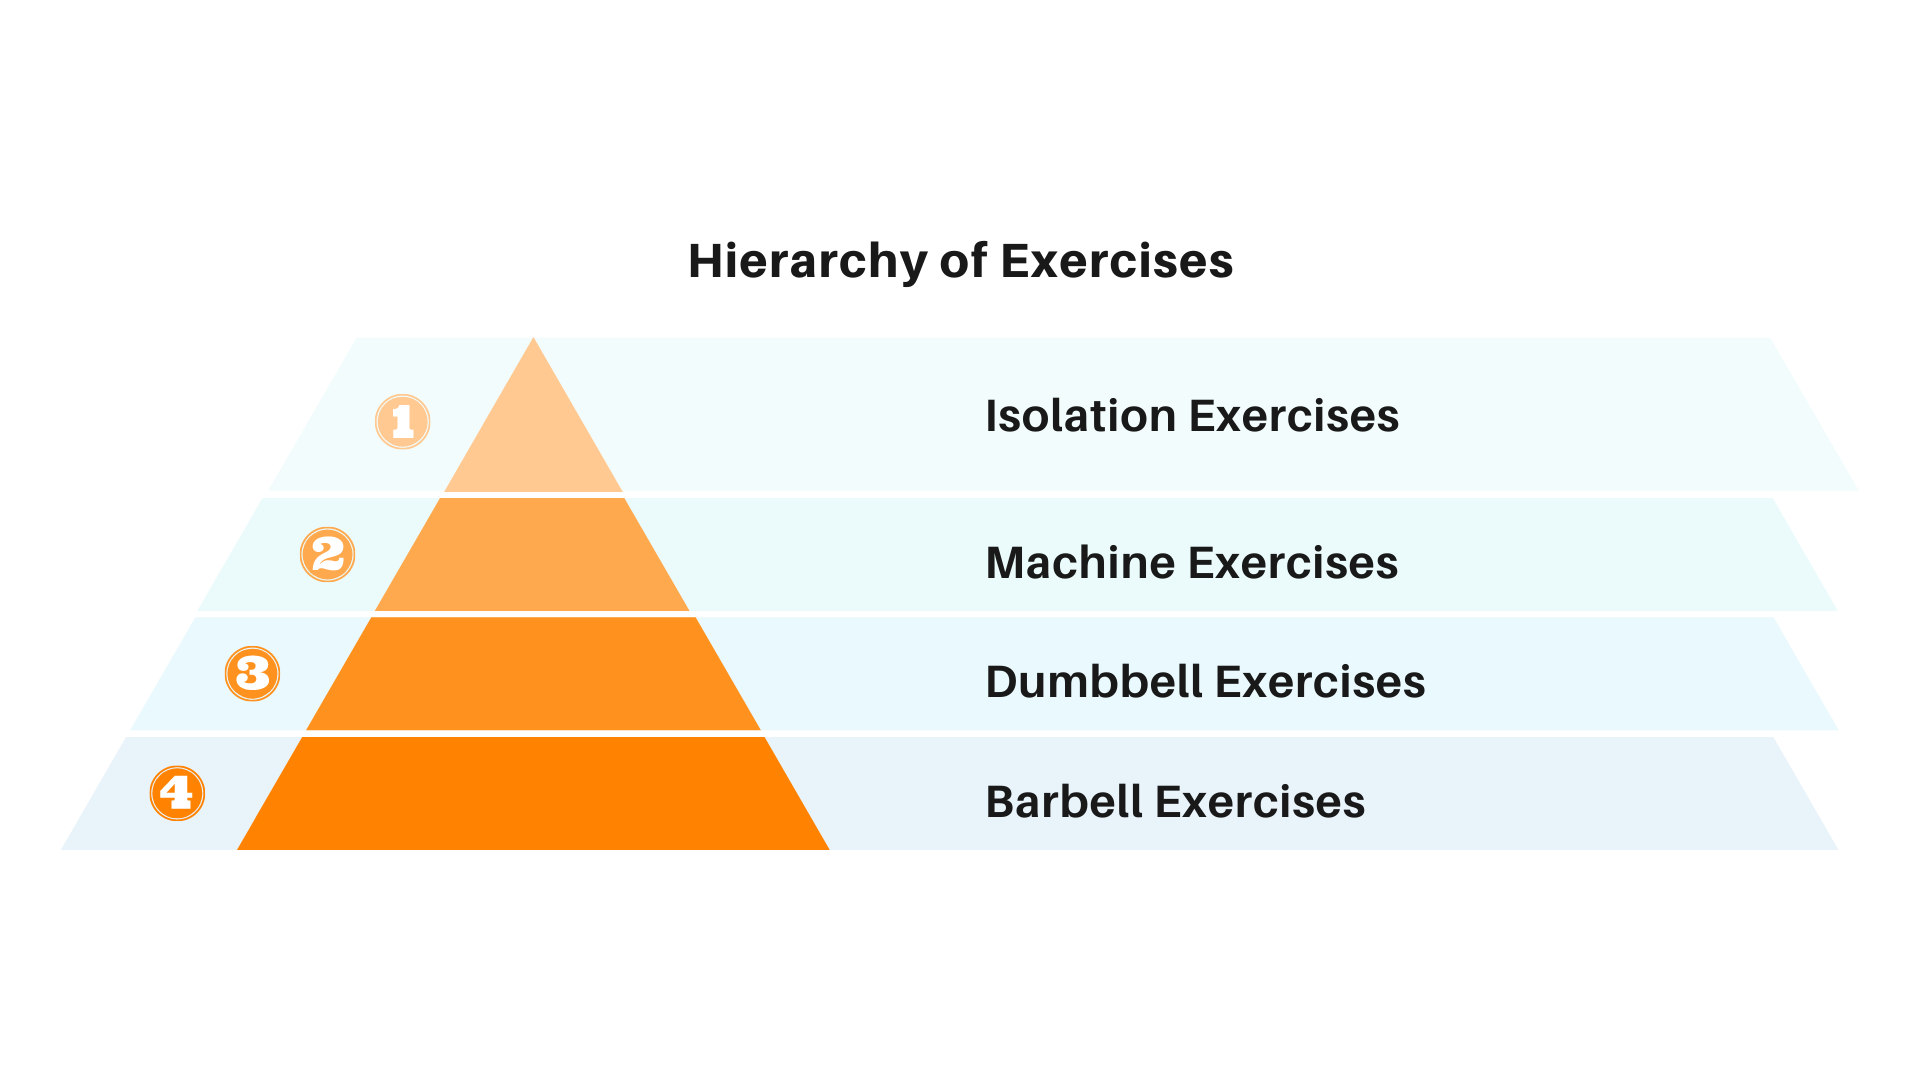
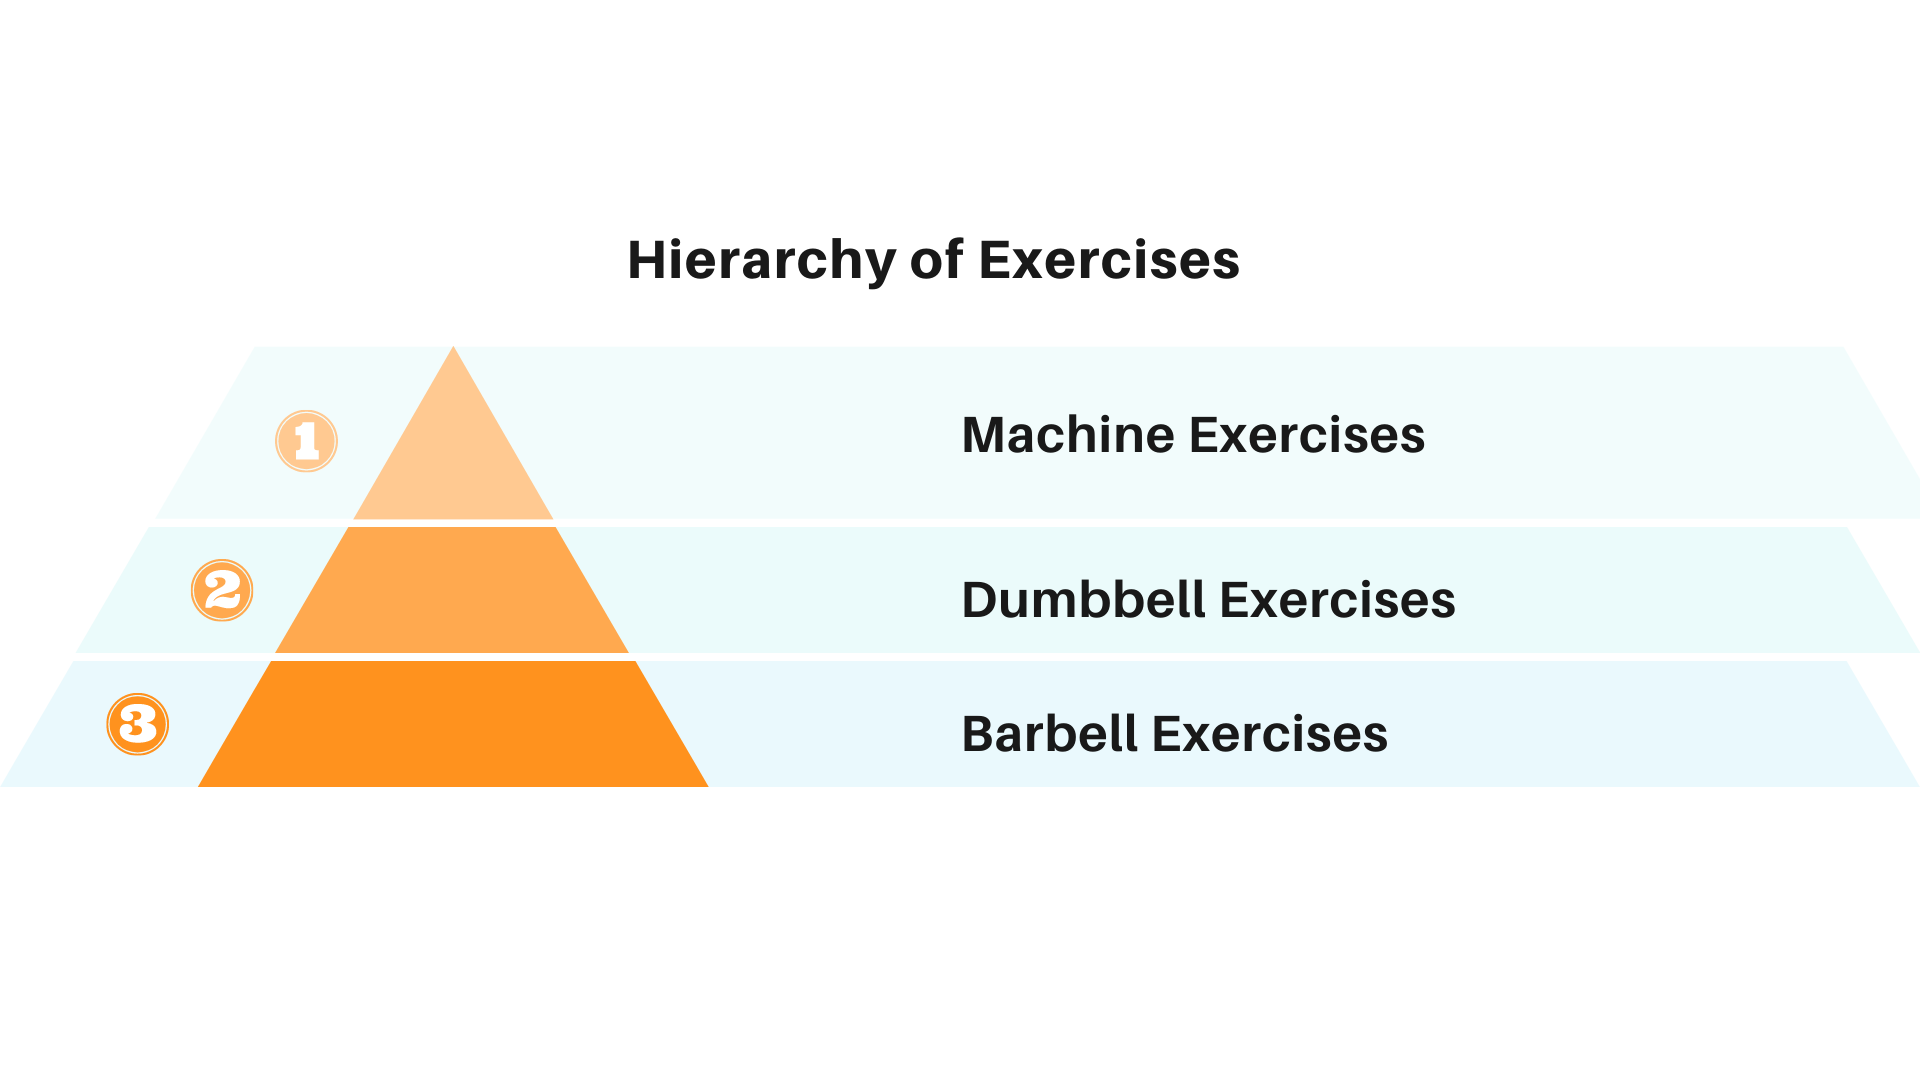
more content to education component, updated graphic

diff --git a/src/components/EducationComponent.js b/src/components/EducationComponent.js
@@ -89,35 +89,43 @@ class EducationPage extends Component {
                         </thead>
                         <tbody>
                             <tr>
-                                <td>Reps</td>
+                                <td><strong>Reps</strong></td>
                                 <td>The amount of repetitions preformed per set. | Example; 1 single push up is 1 rep or repetition.</td>
                             </tr>
                             <tr>
-                                <td>Sets</td>
+                                <td><strong>Sets</strong></td>
                                 <td>The amount of times you preform a lift for a set of reps. | Example; 5 push ups in sequence, followed by a break, and then 5 more push ups would be 2 sets of 5 reps.</td>
                             </tr>
                             <tr>
-                                <td>Reps X Sets</td>
+                                <td><strong>Reps X Sets</strong></td>
                                 <td>Commonly how reps and sets are written in routines. | Example; 3 x 10 would mean 10 repetitions for each of the 3 sets.</td>
                             </tr>
                             <tr>
-                                <td>1 Rep Max</td>
-                                <td>The absolute maximum amount of weight you can lift on a given exercise for 1 repetition. Sometimes tested, but often calculated using a 1 rep max calculator for saftey.</td>
+                                <td><strong>1 Rep Max</strong></td>
+                                <td>The absolute maximum amount of weight you can lift on a given exercise for 1 repetition. Sometimes tested, but often calculated using a 1 rep max calculator for safety.</td>
                             </tr>
                             <tr>
-                                <td>Barbell</td>
+                                <td><strong>Barbell</strong></td>
                                 <td>Long bars that can be loaded with individual weights/plates.</td>
                             </tr>
                             <tr>
-                                <td>Dumbbell</td>
+                                <td><strong>Dumbbell</strong></td>
                                 <td>Shorter bars that have fixed weights, often incrementing by 5lbs.</td>
                             </tr>
                             <tr>
-                                <td>Strength</td>
+                                <td><strong>Compound Exercise</strong></td>
+                                <td>Exercises that work multiple muscle groups at once. Bench Press, Deadlift, Squat, Pull Ups, Over Head Press, etc.</td>
+                            </tr>
+                            <tr>
+                                <td><strong>Isolation Exercise</strong></td>
+                                <td>Exercises that mainly target one specific muscle group. Dumbbell Curl, Dumbbell or Machine Chest Fly, etc.</td>
+                            </tr>
+                            <tr>
+                                <td><strong>Strength</strong></td>
                                 <td>Measures and describes how much weight can be lifted.</td>
                             </tr>
                             <tr>
-                                <td>Hypertrophy</td>
+                                <td><strong>Hypertrophy</strong></td>
                                 <td>The effect of an exercises ability to increase muscle size.</td>
                             </tr>
                         </tbody>
@@ -144,7 +152,7 @@ class EducationPage extends Component {
                     <div> <strong>Week 4</strong> - Bench Press : 85lbs for 3 sets X 8 reps</div>
 
                     <h2 class="mt-4">Training for Strength or Hypertrophy</h2>
-                    <p>A common misconception people have after learning the above concepts about strength and hypertrophy is that you can only train one at a time. While this is not entirely true or false, it is worth explaining that often routines will be oriented around a specific training goal. Because focusing on one goal at a time often is the most effecient way to train for each area. It's recommended to start with strength training and then change routines when the gains start to diminish.</p>
+                    <p>A common misconception people have after learning the above concepts about strength and hypertrophy is that you can only train one at a time. While this is not entirely true or false, it is worth explaining that often routines will be oriented around a specific training goal. Because focusing on one goal at a time often is the most efficient way to train for each area. It's recommended to start with strength training and then change routines when the gains start to diminish.</p>
 
                     <ul>
                         <li>
@@ -170,21 +178,20 @@ class EducationPage extends Component {
 
                     {/* Highlight the importance of exercise selections - compounds vs isolation / multi-joint vs single-joint */}
                     <h2 class="mt-4">Exercise Selection</h2>
-                    <p>When deciding on the exercises to include in a routine, it's worth considering which ones will provide the most results. In order to make steady progress building a routine intelligently can make it twice as effective.</p>
-                    <h5 class="mt-4">Barbell Exercises</h5>
-                    <p>Lifts using the barbell should make up the foundation of any good routine. Barbell movements are compound movements, which means they work multiple muslces at once. Additionally most of these exercises can be loaded much heavier than other options, making them great for increasing strength.</p>
-
-                    <h5 class="mt-4">Dumbbell Exercises</h5>
-                    <p>Lifts using the barbell should make up the foundation of any good routine. Barbell movements are compound movements, which means they work multiple muslces at once. Additionally most of these exercises can be loaded much heavier than other options, making them great for increasing strength.</p>
-
-                    <h5 class="mt-4">Machine Exercises</h5>
-                    <p>Lifts using the barbell should make up the foundation of any good routine. Barbell movements are compound movements, which means they work multiple muslces at once. Additionally most of these exercises can be loaded much heavier than other options, making them great for increasing strength.</p>
-
-                    <h5 class="mt-4">Isolation Exercises</h5>
-                    <p>Lifts using the barbell should make up the foundation of any good routine. Barbell movements are compound movements, which means they work multiple muslces at once. Additionally most of these exercises can be loaded much heavier than other options, making them great for increasing strength.</p>
+                    <p>When deciding on the exercises to include in a routine, it's worth considering which ones will provide the most results. In order to make steady progress building a routine intelligently can make it twice as effective. Below is general list of the catagories most equipment will fit into and should make up the bulk of any routine.</p>
 
                     <img style={{height: 390}} alt="hierarchy of exercises" src={hierarchy} />
-                    
+                    <ul>
+                        <h5>Barbell Exercises</h5>
+                        <p>Lifts using the barbell should make up the foundation of any good routine. Barbell movements are primarily compound movements, which means they work multiple muscles at once. Additionally most of these exercises can be loaded much heavier than other options, making them great for increasing strength.</p>
+    
+                        <h5 class="mt-4">Dumbbell Exercises</h5>
+                        <p>Dumbbell exercises are important because they can be used to train muscle groups together or in isolation. Additionally they can be used to train the body iso-laterally, or each side on it's own. This is very useful for strengthening and correcting muscular imbalances. Dumbbells force the body to stabilize and preform the lift without assistance from the other side of the body.</p>
+    
+                        <h5 class="mt-4">Machine Exercises</h5>
+                        <p>Machine exercises often get a bad rep for not being "real lifts" but they often excel in their specific muscle building goal. Machines allow you to train for certain lifts before you have the nessecarry strength to preform them. For example; using machines you can train the movement pattern for pull ups, building your arm and lat strength enough to eventually preform them with bodyweight. Another benifit of machines, is they allow you to push yourself closer to failure more safely without the need of a spotter.</p>
+                    </ul>
+
                     {/* List off core compound movements */}
                     <h4 class="mt-1">Compound Movements</h4>
                     {/* Use cases for both */}
